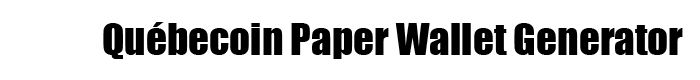
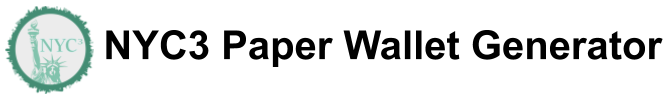
update

Changed region(s): [[0.0, 0.05, 1.0, 0.975]]

diff --git a/index.html b/index.html
@@ -9708,7 +9708,6 @@ input, button, submit { border:none; }
 
     <div class="banner">
       <div id="coinLogo">
-        <img id="coinLogoImg" src="images/NYC3.png" alt="Open Source Client-Side Wallet Generator" />
       </div>
       <h1>
         <img id="siteTitle" src="images/banner.png" alt="NYC3 Paper Wallet Generator" />
@@ -10016,7 +10015,7 @@ input, button, submit { border:none; }
       
       <div class="copyright">
         <span id="footerlabelcopyright1">Copyright WalletGenerator.net | bitaddress.org | Altmarkets.io</span>
-        <span id="footerlabelcopyright2" class="i18n">JavaScript copyrights are included in the <a href="https://github.com/jonn4y/NYC3-paperwallet">source.</a></span>
+        <span id="footerlabelcopyright2" class="i18n">JavaScript copyrights are included in the <a href="https://github.com/walletgeneratornet/WalletGenerator.net">source.</a></span>
         <span id="footerlabelnowarranty" class="i18n">No warranty is provided.</span>
       </div>
     </div>
